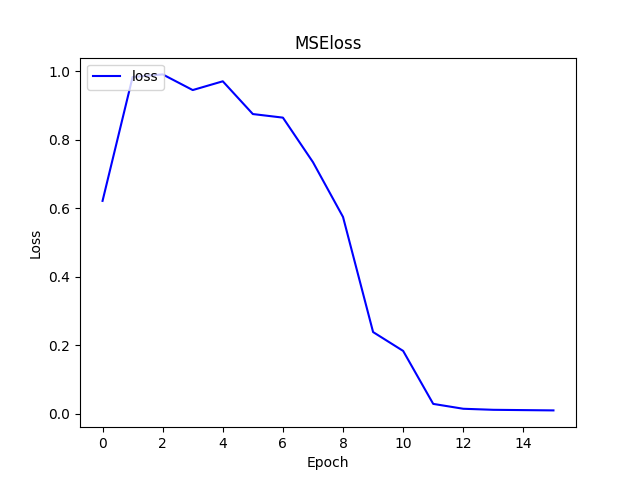
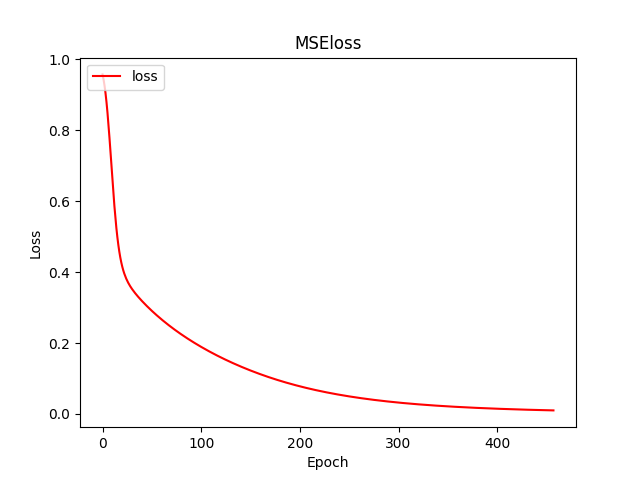
Graph included

diff --git a/node.py b/node.py
@@ -52,7 +52,7 @@ class nodeModel:
     
     def draw_result(self, MSEloss, title):
         epochs = list(range(len(MSEloss)))  # x-as: 0, 1, ..., n
-        plt.plot(epochs, MSEloss, '-b', label='loss')
+        plt.plot(epochs, MSEloss, '-b', label='loss', color= "red")
 
         plt.xlabel("Epoch")
         plt.ylabel("Loss")
@@ -64,7 +64,7 @@ class nodeModel:
 
 
 
-    def train(self, X, Y, epochs=10, lr=0.1):
+    def train(self, X, Y, epochs=1000, lr=0.01):
         lst_loss = []
         for epoch in range(epochs):
             output = self.forward(X)

diff --git a/link.py b/link.py
@@ -13,7 +13,7 @@ class linkData:
         Y_test = [outputDict[label] for inp, label in testSet]
 
         model = nodeModel(inputDim, outputDim, hiddenDim)
-        lst_loss = model.train(X_train, Y_train, epochs=100, lr=0.1)
+        lst_loss = model.train(X_train, Y_train, epochs=1000, lr=0.01)
 
         set_as_label = {0: 'O', 1: 'X'}
         

diff --git a/data.py b/data.py
@@ -1,6 +1,6 @@
 inputDim = 9
-hiddenDim = 39
-# hiddenDim = 10
+# hiddenDim = 39
+hiddenDim = 10
 outputDim = 2
 
 maxCost = 0.01
